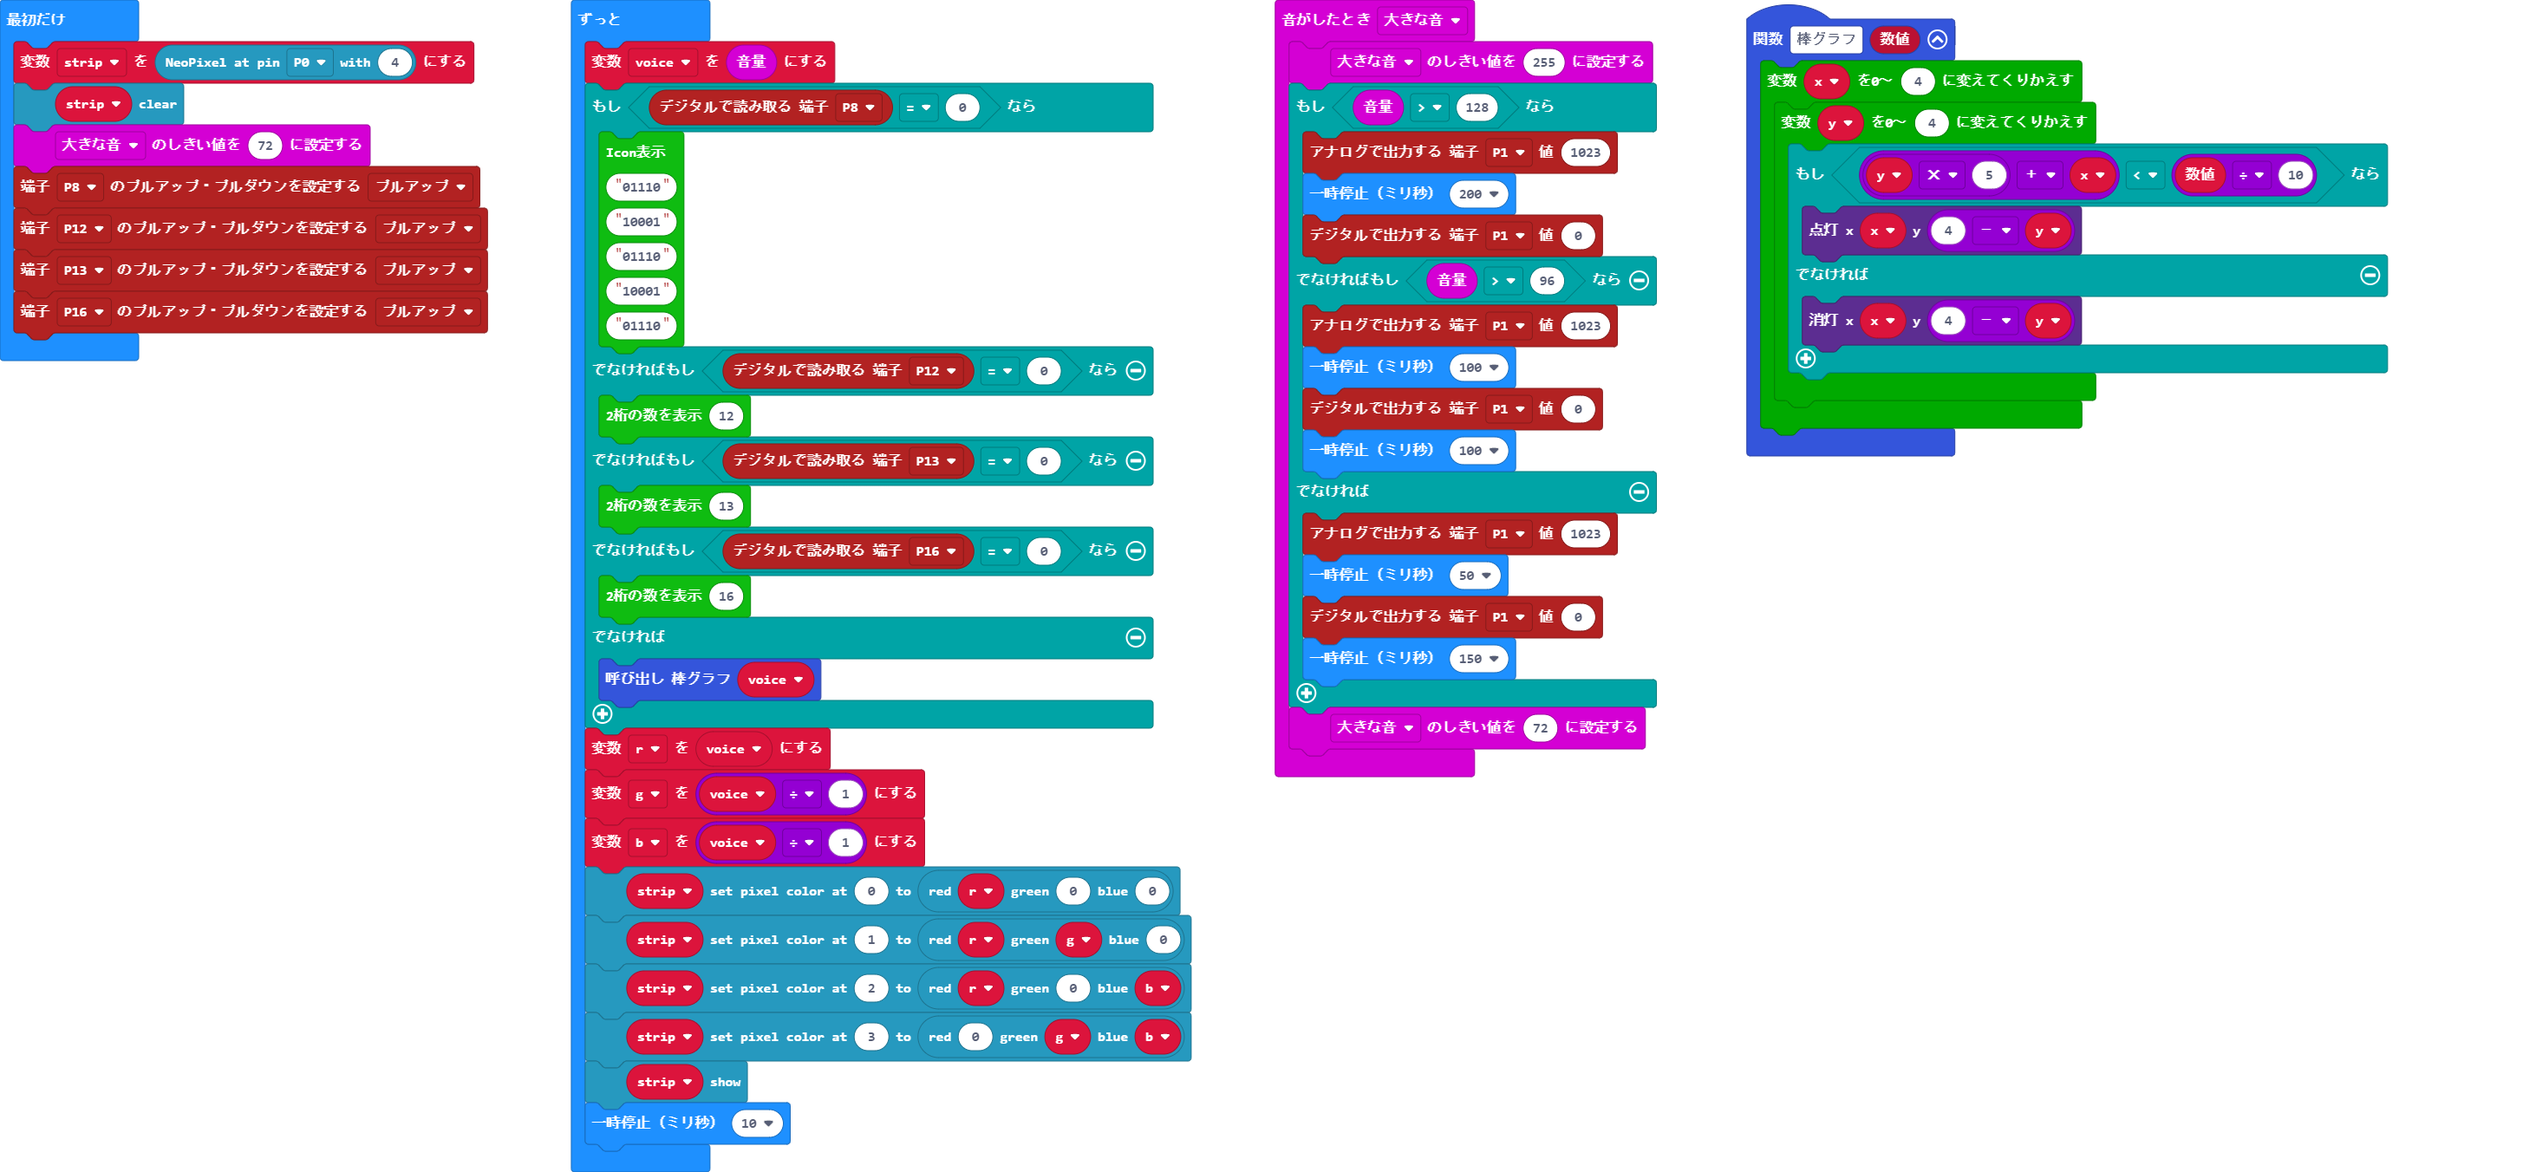
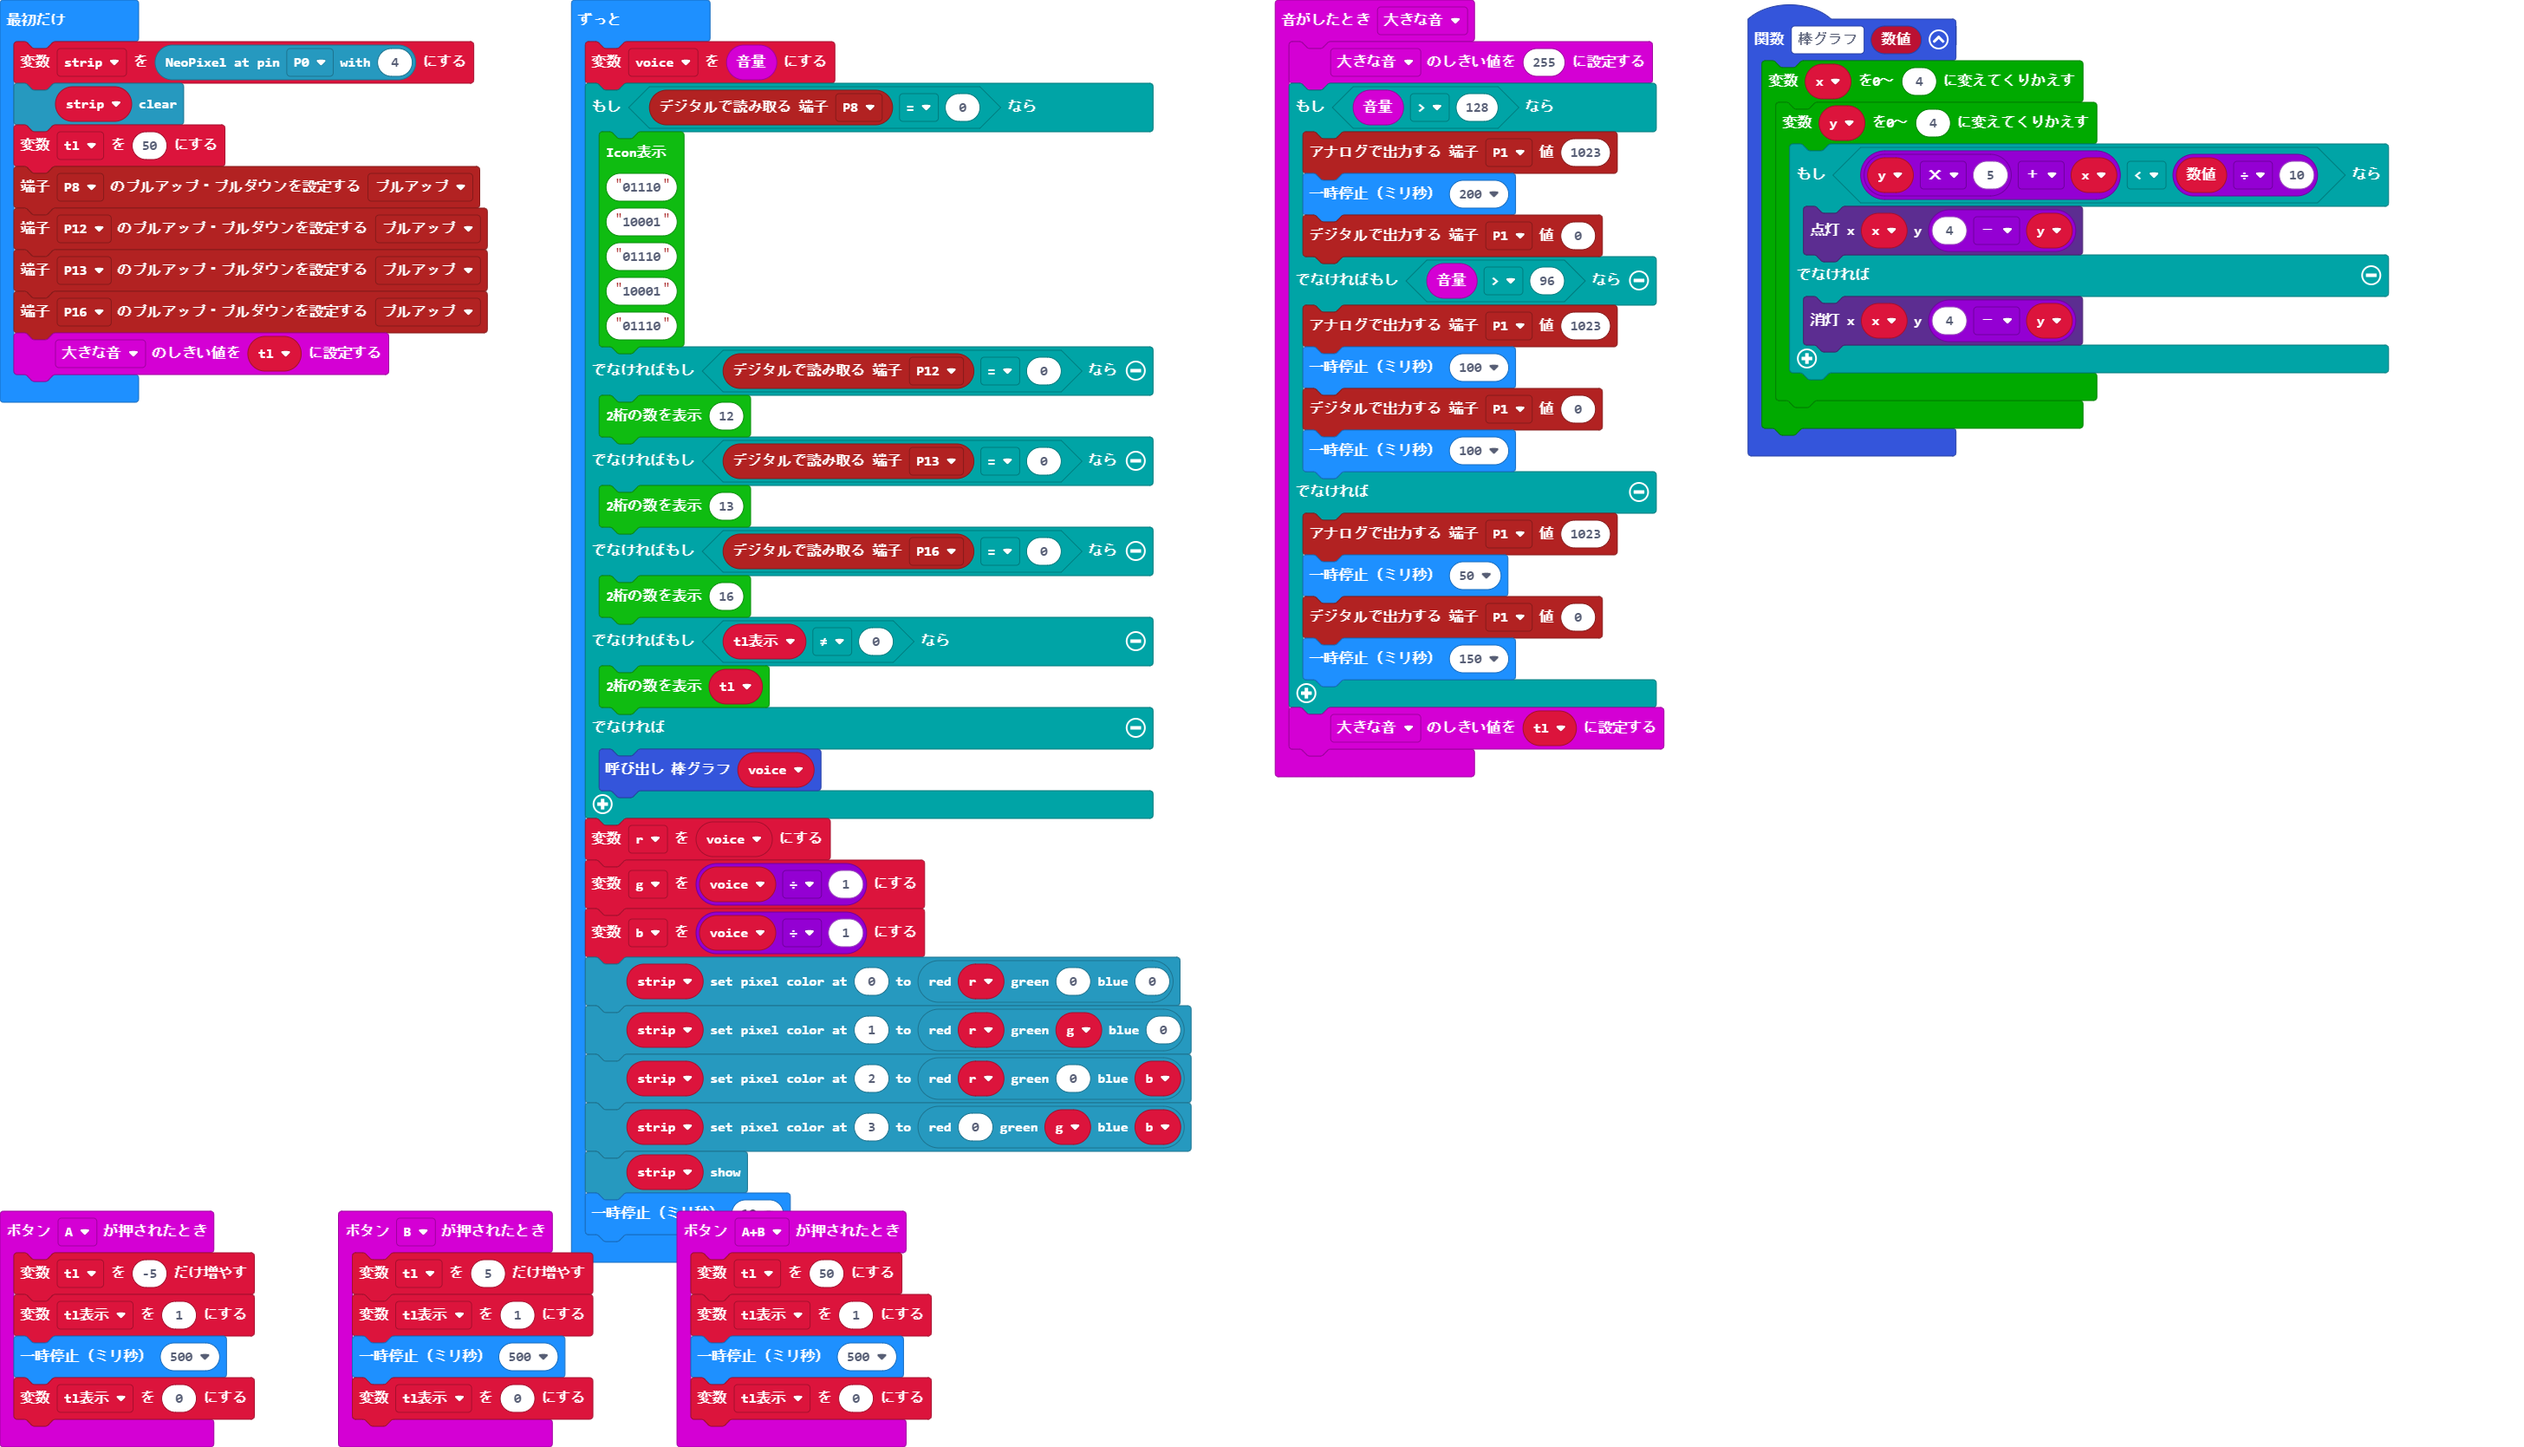
Update main.blocks, main.ts

diff --git a/main.ts b/main.ts
@@ -9,6 +9,12 @@ function 棒グラフ (数値: number) {
         }
     }
 }
+input.onButtonPressed(Button.A, function () {
+    tl += -5
+    tl表示 = 1
+    basic.pause(500)
+    tl表示 = 0
+})
 input.onSound(DetectedSound.Loud, function () {
     input.setSoundThreshold(SoundThreshold.Loud, 255)
     if (input.soundLevel() > 128) {
@@ -26,19 +32,34 @@ input.onSound(DetectedSound.Loud, function () {
         pins.digitalWritePin(DigitalPin.P1, 0)
         basic.pause(150)
     }
-    input.setSoundThreshold(SoundThreshold.Loud, 72)
+    input.setSoundThreshold(SoundThreshold.Loud, tl)
+})
+input.onButtonPressed(Button.AB, function () {
+    tl = 50
+    tl表示 = 1
+    basic.pause(500)
+    tl表示 = 0
+})
+input.onButtonPressed(Button.B, function () {
+    tl += 5
+    tl表示 = 1
+    basic.pause(500)
+    tl表示 = 0
 })
 let b = 0
 let g = 0
 let r = 0
 let voice = 0
+let tl表示 = 0
+let tl = 0
 let strip = neopixel.create(DigitalPin.P0, 4)
 strip.clear()
-input.setSoundThreshold(SoundThreshold.Loud, 72)
+tl = 50
 pins.setPull(DigitalPin.P8, PinPullMode.PullUp)
 pins.setPull(DigitalPin.P12, PinPullMode.PullUp)
 pins.setPull(DigitalPin.P13, PinPullMode.PullUp)
 pins.setPull(DigitalPin.P16, PinPullMode.PullUp)
+input.setSoundThreshold(SoundThreshold.Loud, tl)
 basic.forever(function () {
     voice = input.soundLevel()
     if (pins.digitalReadPin(DigitalPin.P8) == 0) {
@@ -55,6 +76,8 @@ basic.forever(function () {
         watchfont.showNumber2(13)
     } else if (pins.digitalReadPin(DigitalPin.P16) == 0) {
         watchfont.showNumber2(16)
+    } else if (tl表示 != 0) {
+        watchfont.showNumber2(tl)
     } else {
         棒グラフ(voice)
     }
